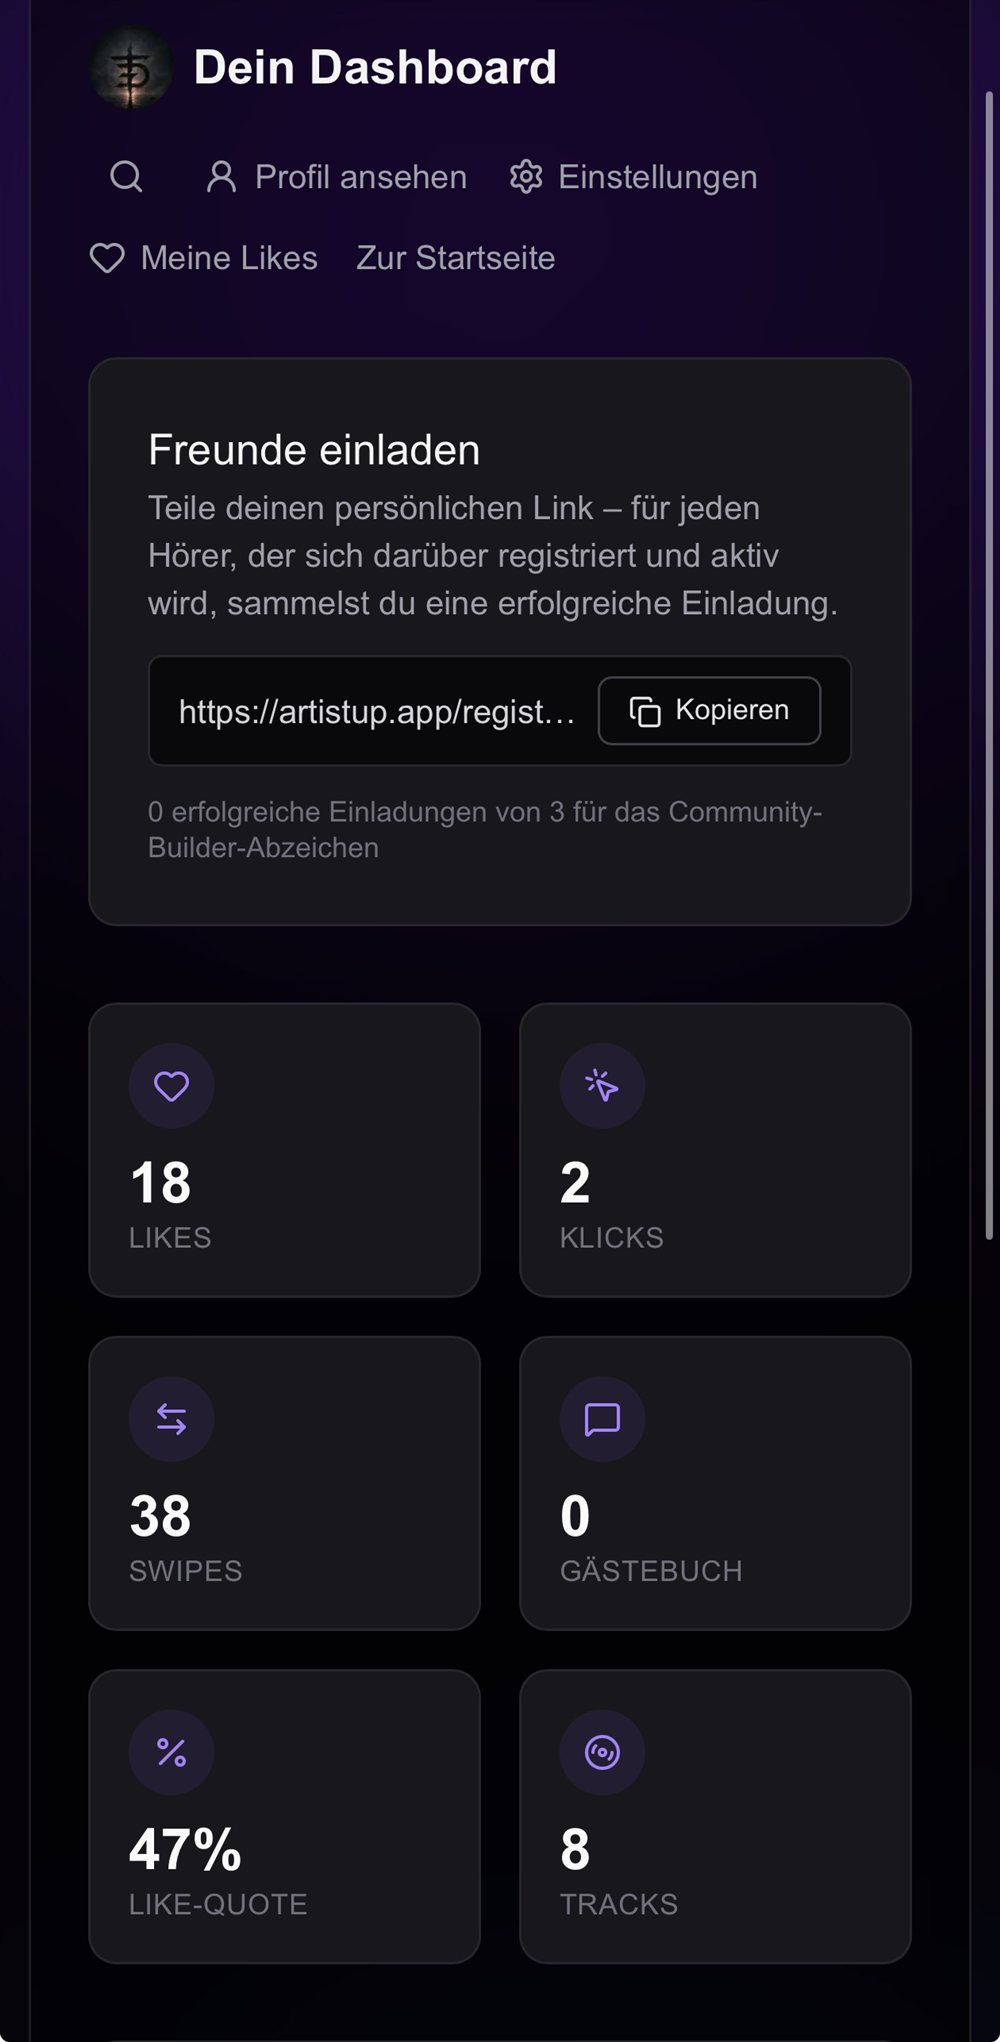
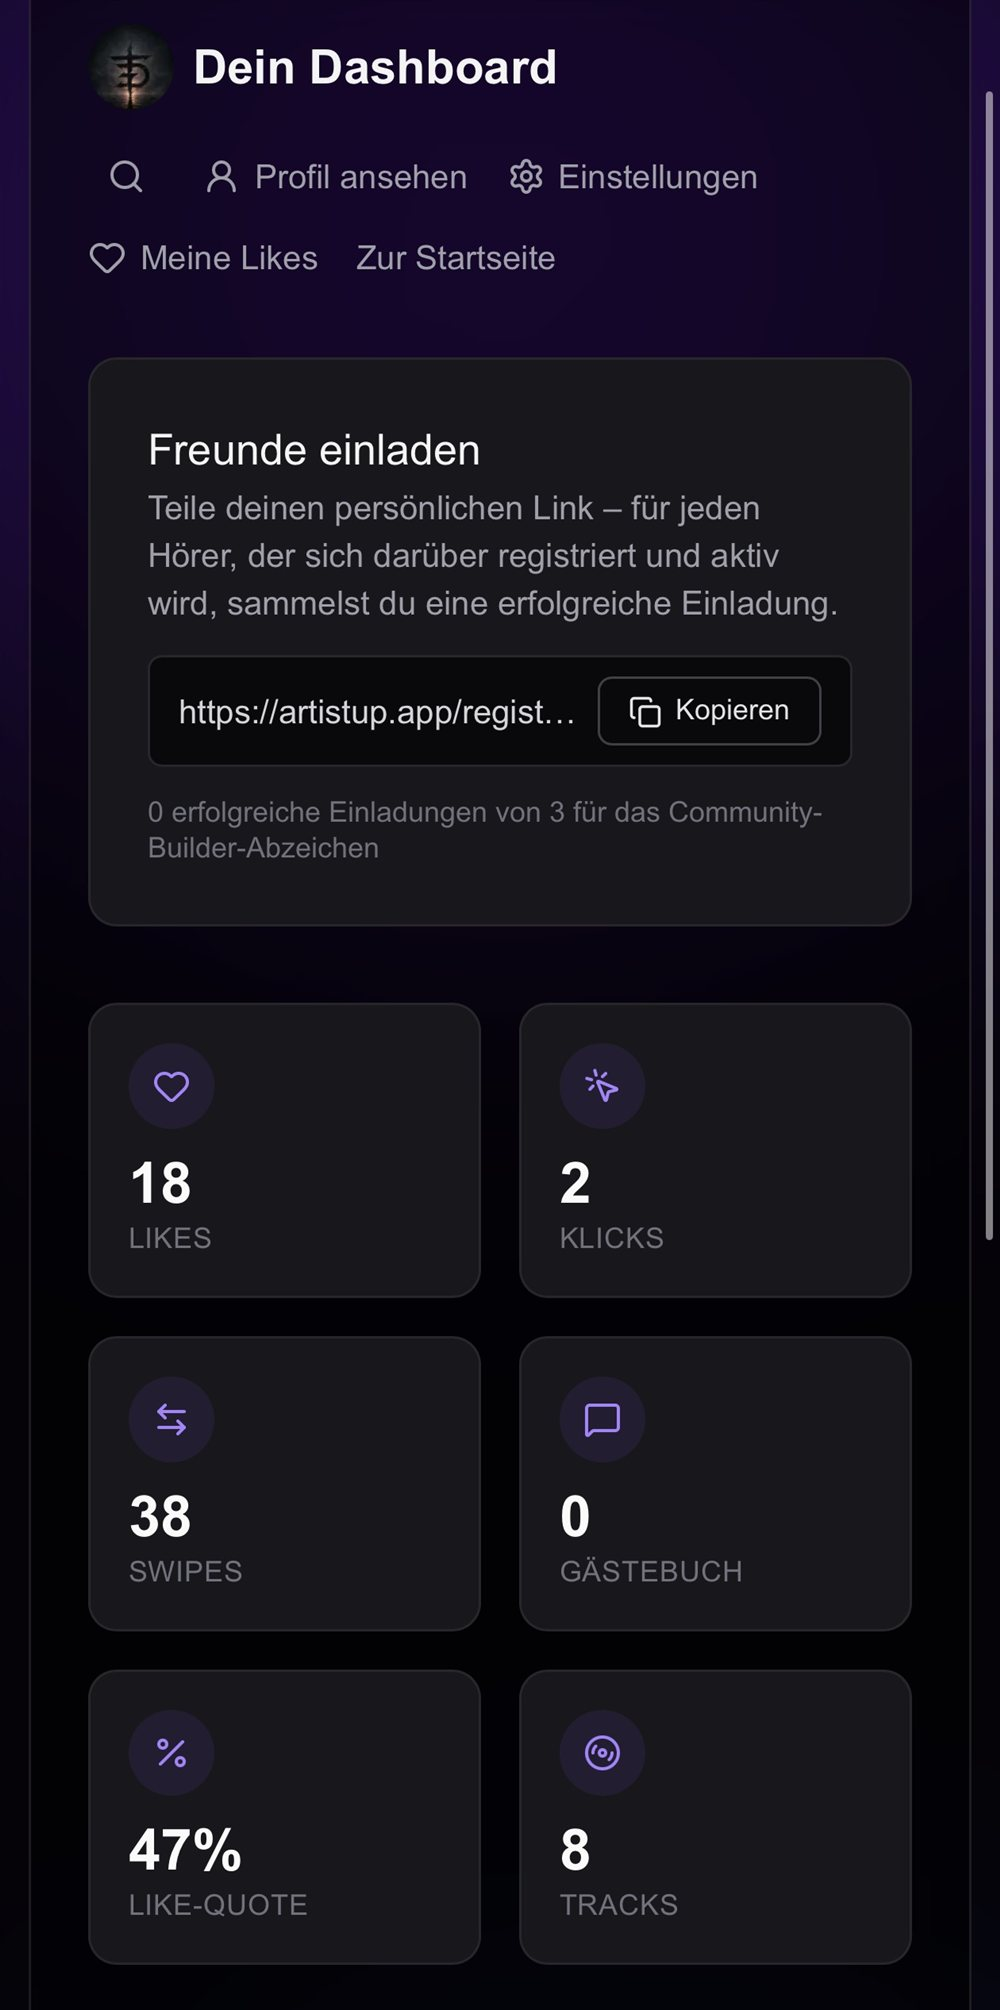
Fix: ArtistUP-Bilder auf identisches Seitenverhaeltnis gebracht (ueberschuessigen leeren Rand am unteren Bildrand des zweiten Screenshots weggeschnitten, kein Bildinhalt betroffen)

diff --git a/index.html b/index.html
@@ -149,7 +149,7 @@
         <div class="reference-body">
           <div class="reference-images">
             <img src="assets/img/ref-artistup-1.jpg" alt="ArtistUP App – Startbildschirm mit Charts, Streak und Künstler-Dashboard" loading="lazy" width="900" height="1809">
-            <img src="assets/img/ref-artistup-2.jpg" alt="ArtistUP App – Künstler-Dashboard mit Likes, Swipes und Statistiken" loading="lazy" width="1000" height="2042">
+            <img src="assets/img/ref-artistup-2.jpg" alt="ArtistUP App – Künstler-Dashboard mit Likes, Swipes und Statistiken" loading="lazy" width="1000" height="2010">
           </div>
           <dl class="case-study">
             <dt>Problem</dt>
